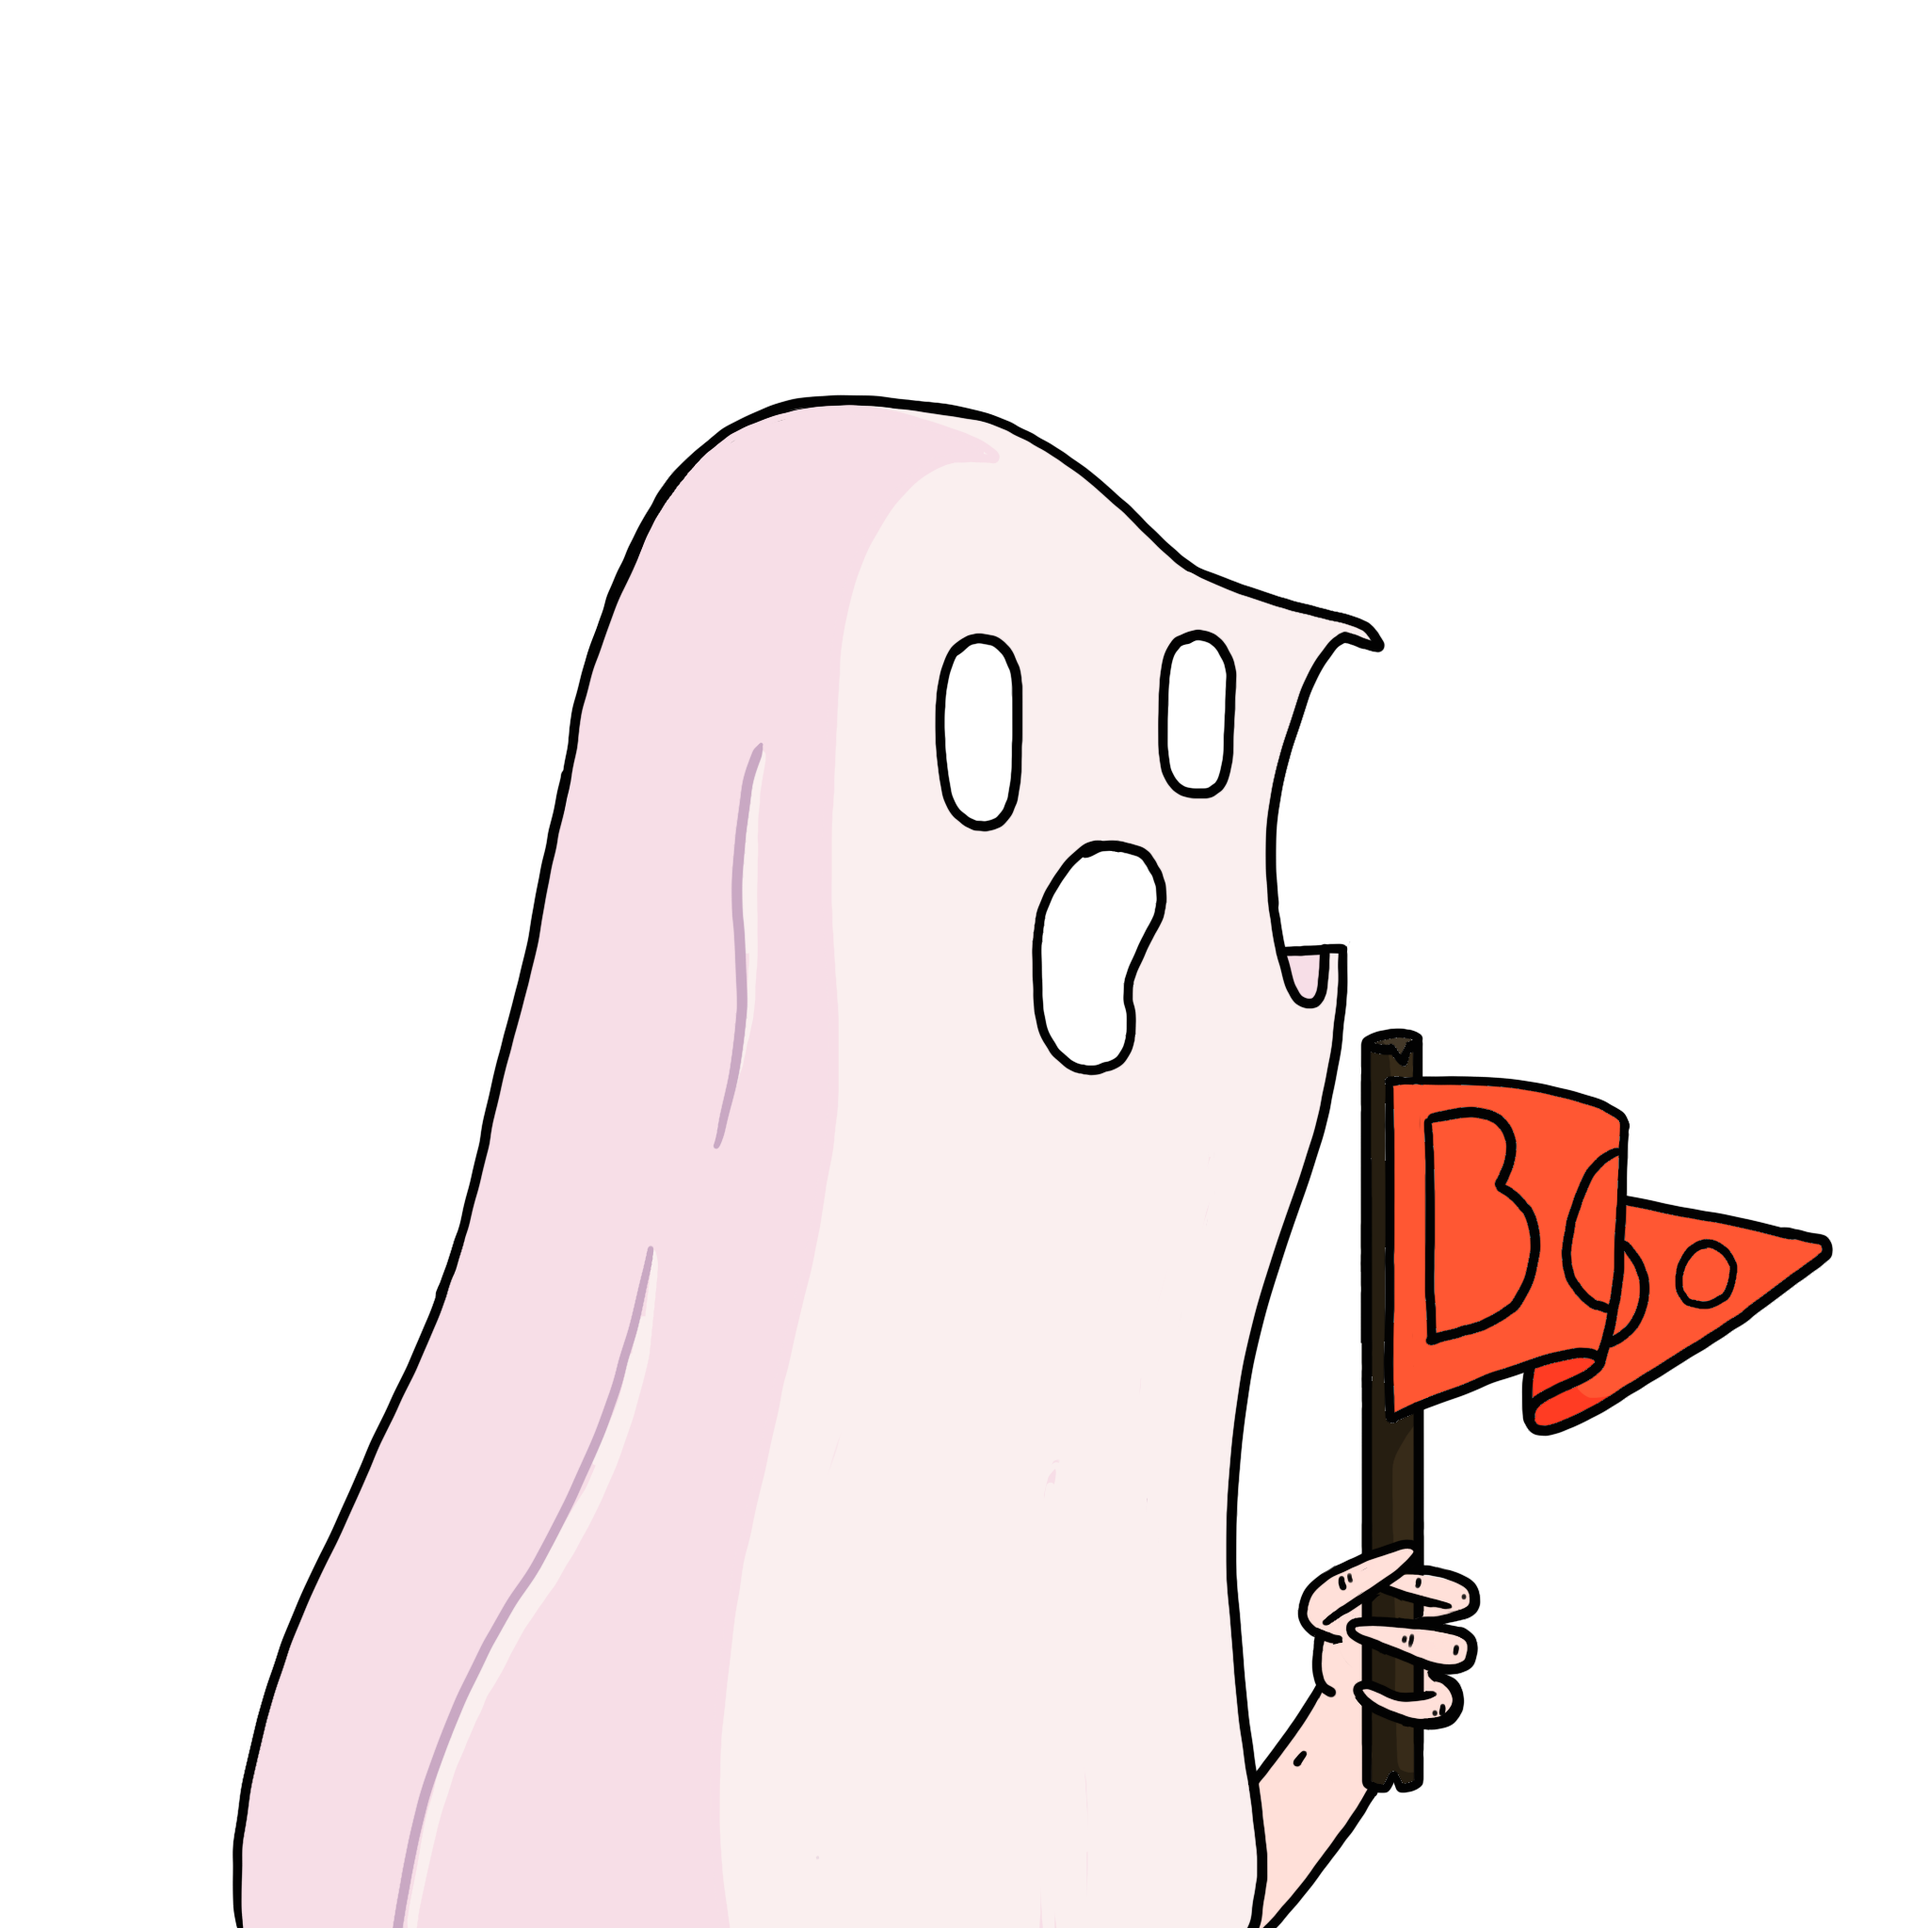
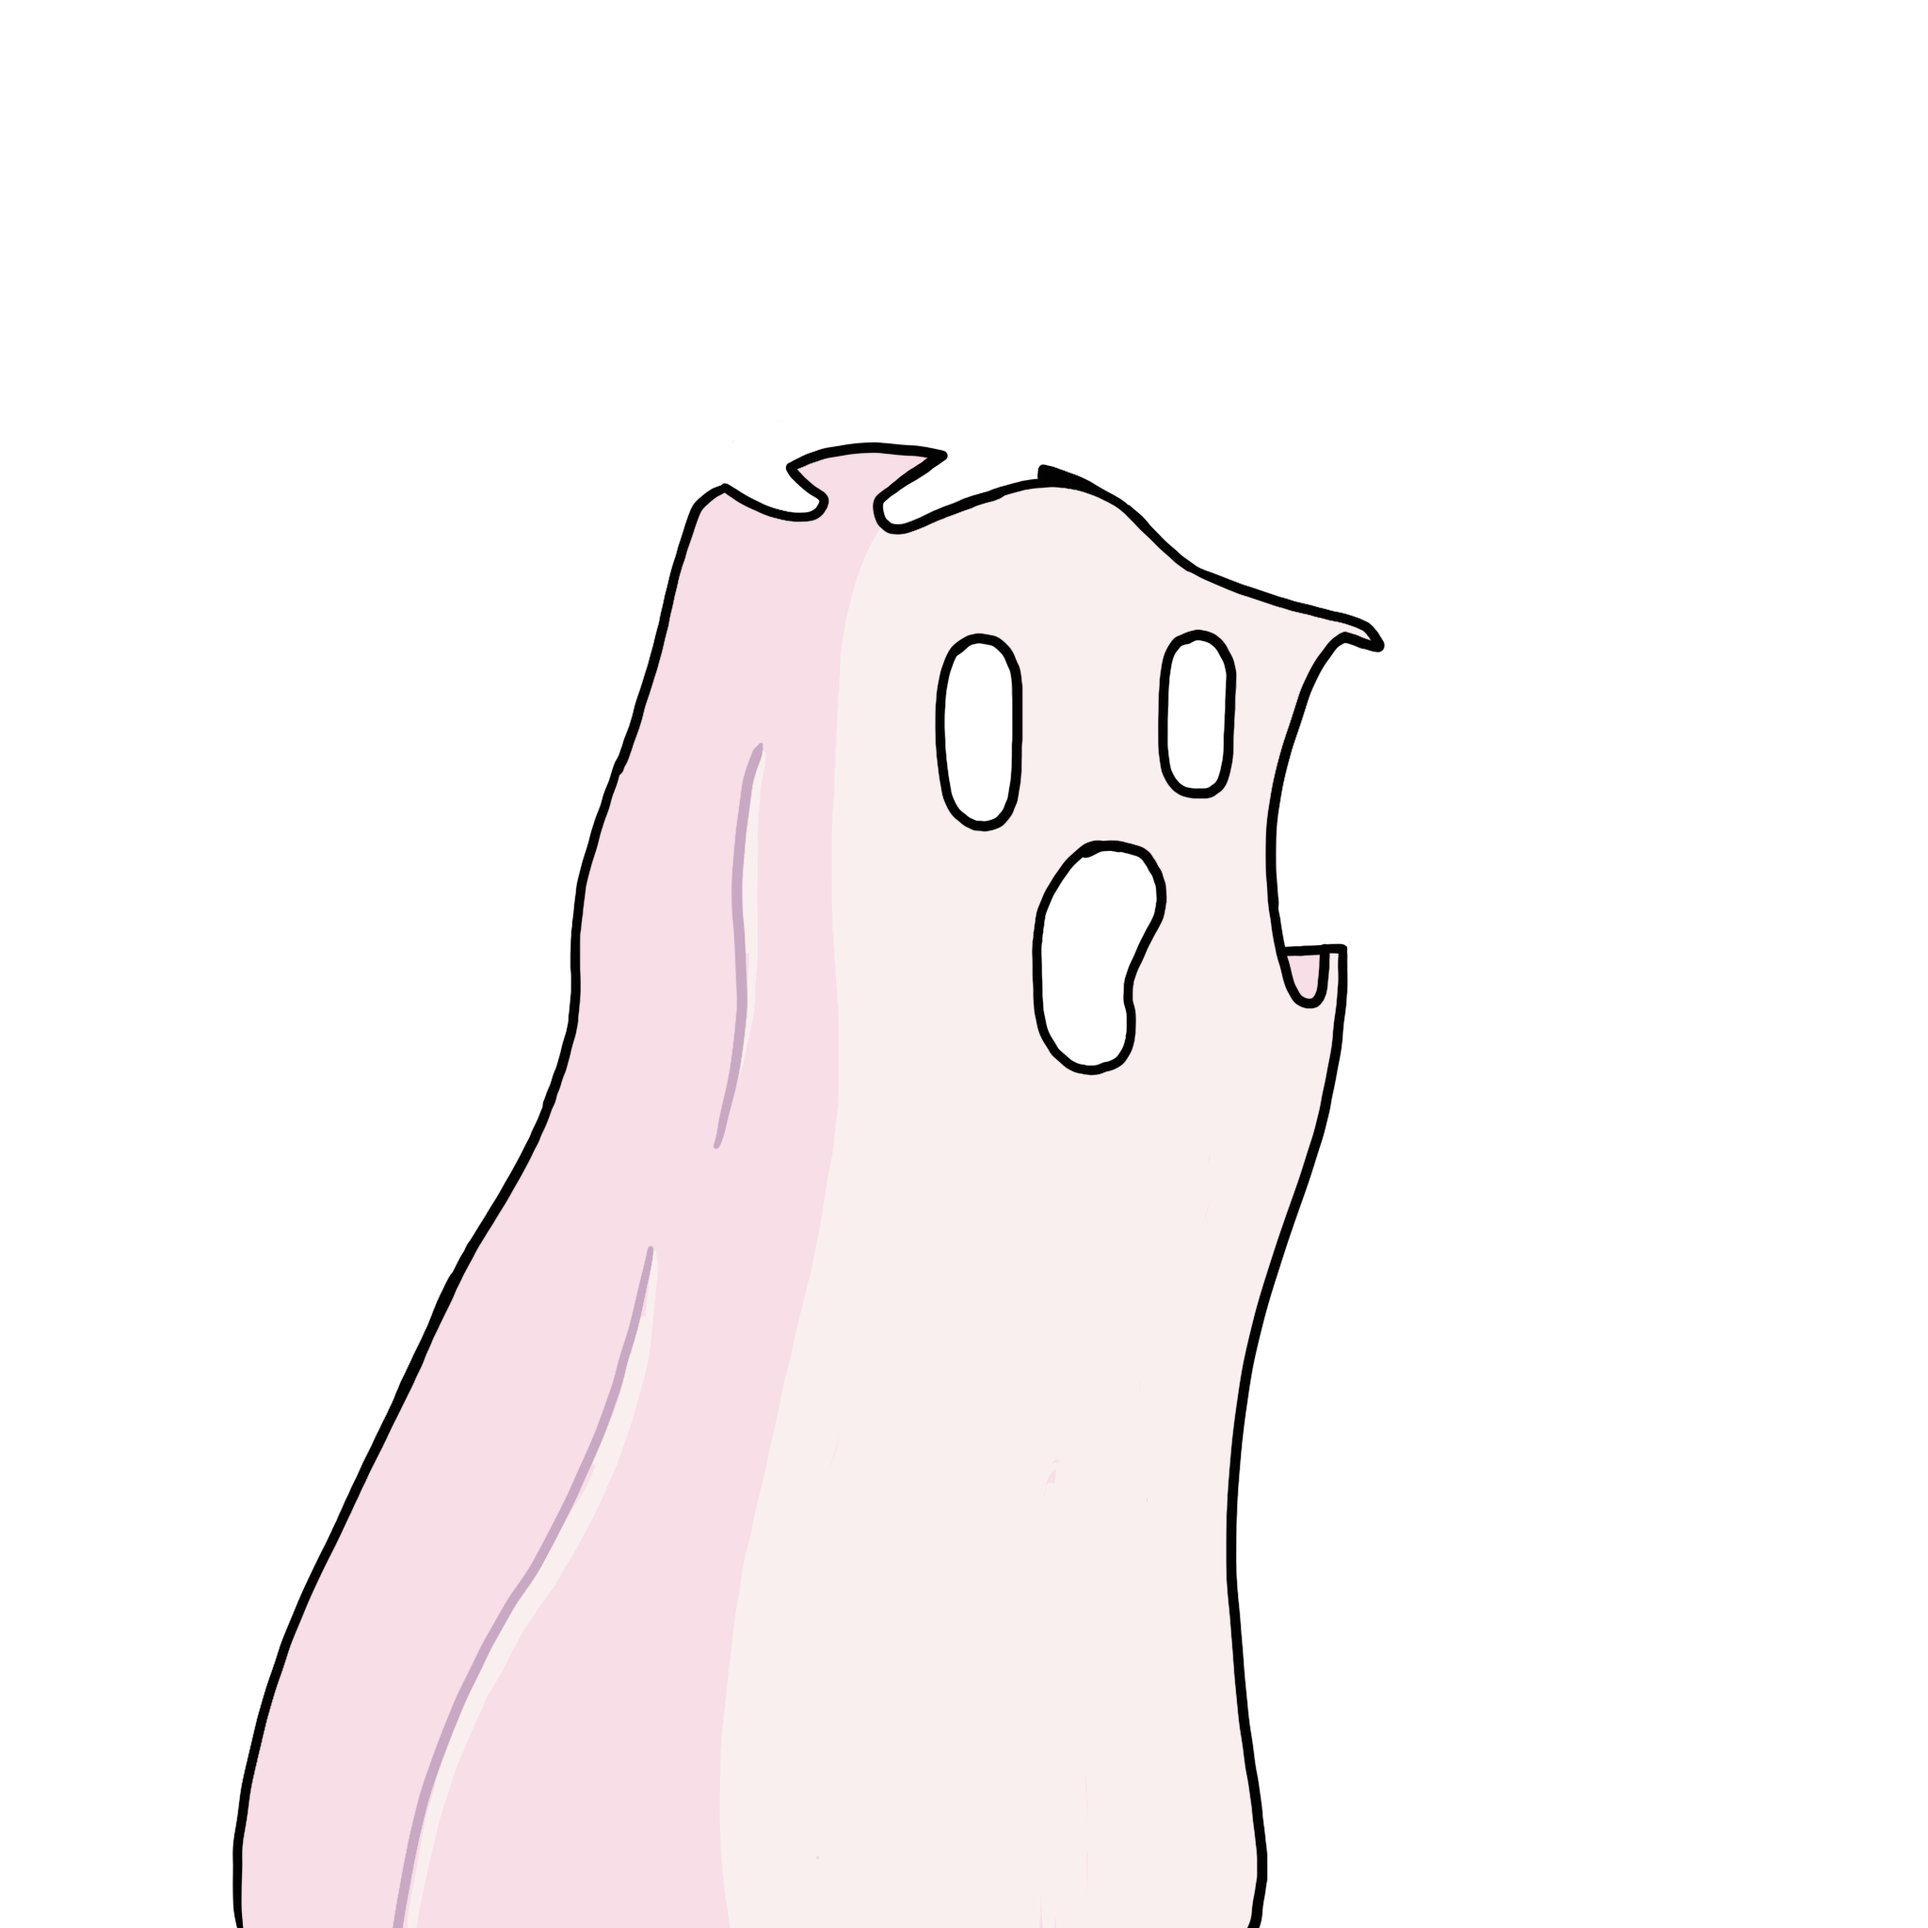
Add with, fairy, and ghost costumes

Changed region(s): [[0.6562, 0.5312, 0.9688, 1.0], [0.2188, 0.1875, 0.5938, 0.6875], [0.1875, 0.7188, 0.2188, 0.75]]

diff --git a/src/config/env.ts b/src/config/env.ts
@@ -57,6 +57,9 @@ export const CLOSET_PIECES = {
     'costume-candy-corn',
     'costume-superhero',
     'karate-white',
+    'costume-ghost',
+    'costume-fairy',
+    'costume-witch',
   ],
   hat: [
     'costume-pumpkin',
@@ -66,12 +69,19 @@ export const CLOSET_PIECES = {
     'costume-cat',
     'costume-vampire',
     'costume-candy-corn',
-    'karate-red',
+    'costume-fairy',
+    'costume-witch',
   ],
   snout: ['costume-vampire'],
   accessory: ['costume-cat'],
   glasses: ['costume-funny'],
-  hand: ['pumpkin-spice-latte', 'champagne'],
+  hand: [
+    'pumpkin-spice-latte',
+    'champagne',
+    'costume-ghost',
+    'costume-fairy',
+    'costume-witch',
+  ],
 };
 export const TOTAL_CLOSET_PIECES = Object.values(CLOSET_PIECES).reduce(
   (prev, curr) => prev + curr.length,
